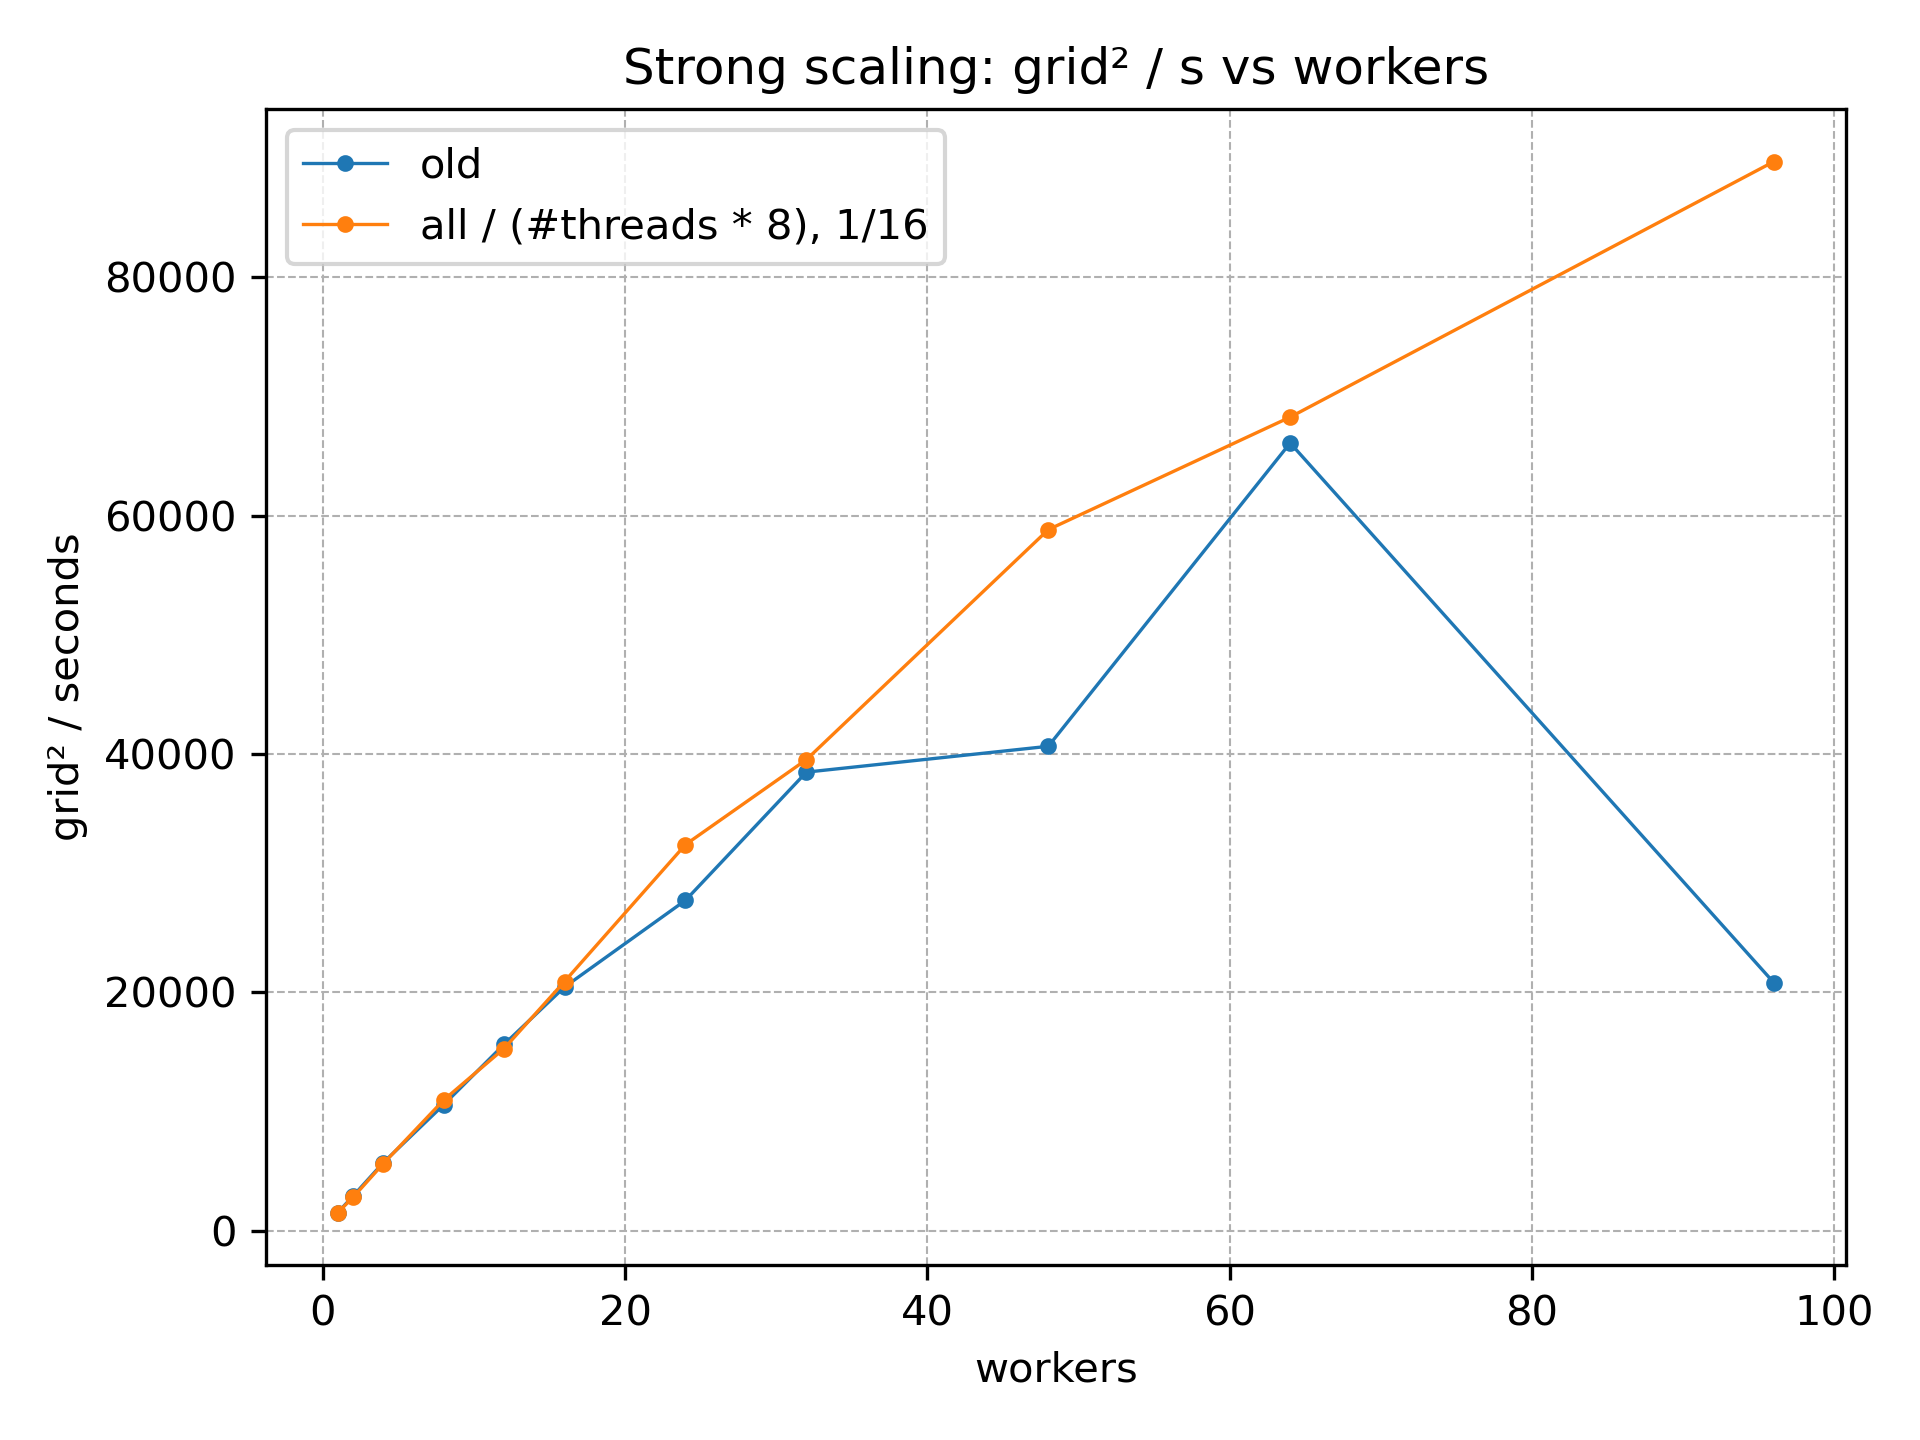
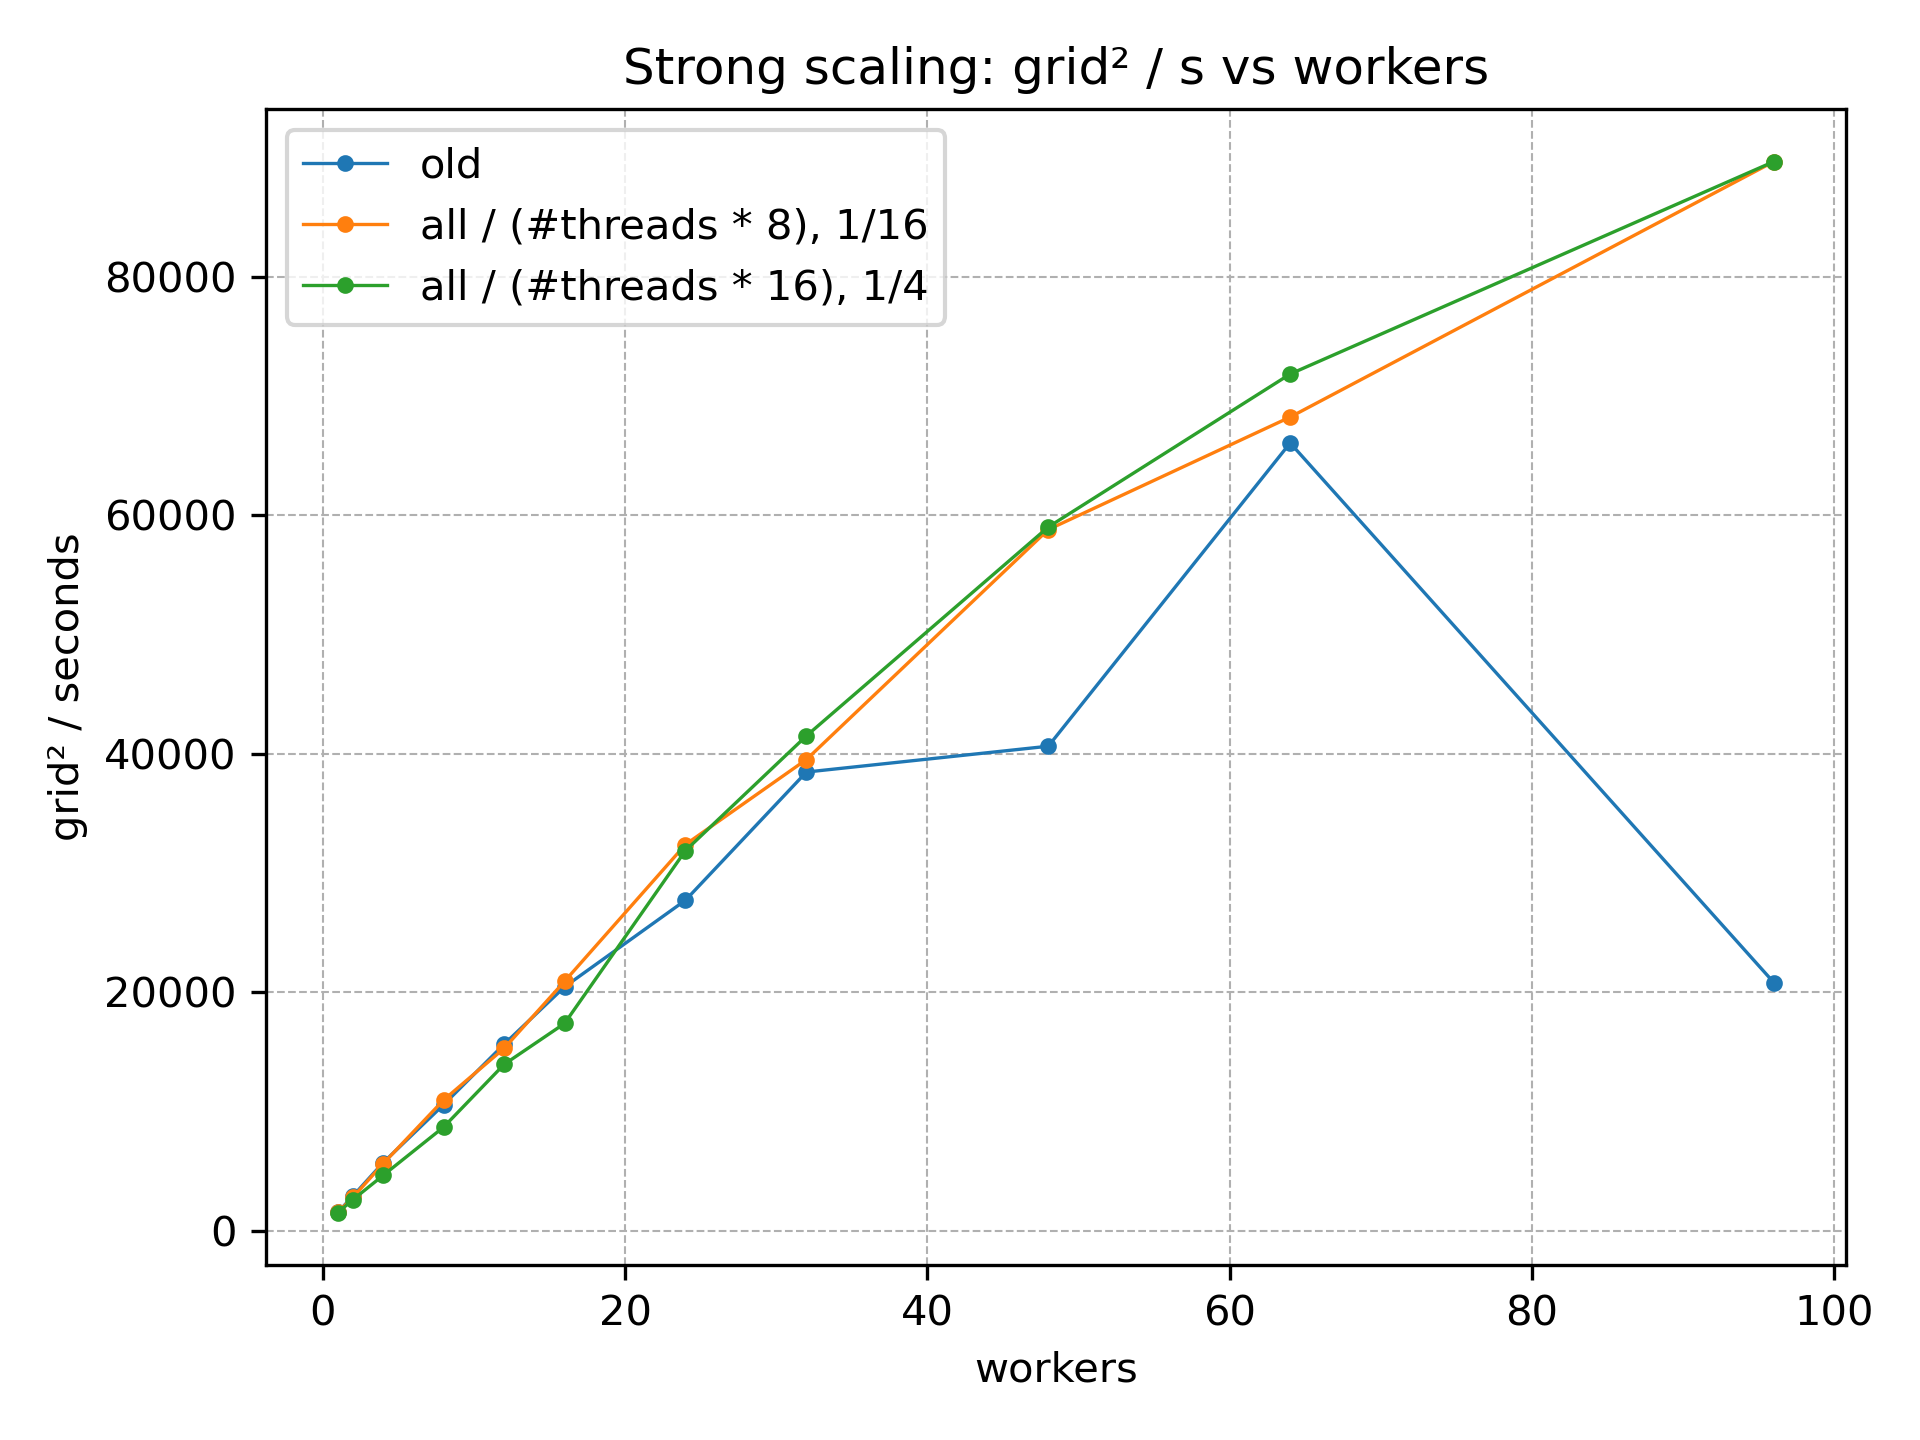
Add results

diff --git a/raytracer.cpp b/raytracer.cpp
@@ -282,9 +282,9 @@ void RayTracer::render(int rank, int size, std::vector<Color>& out_pixels) {
         }
     };
 
-	constexpr int tiles_per_worker = 8;
+	const int tiles_per_worker = [&](){ if (size < 32) { return 8; } return 16; }();
     const int tile_height = std::max(1, height / (size * tiles_per_worker));
-    const int master_tile_height = tile_height / 8; // Rank 0 uses smaller tiles to offset communication overhead
+    const int master_tile_height = [&](){ if (size < 32) { return tile_height / 16; } return tile_height / 4; }(); // Rank 0 uses smaller tiles to offset communication overhead
 	enum class Tag : int { WORK = 1, RESULT = 2 };
 
     if (rank == 0) {
